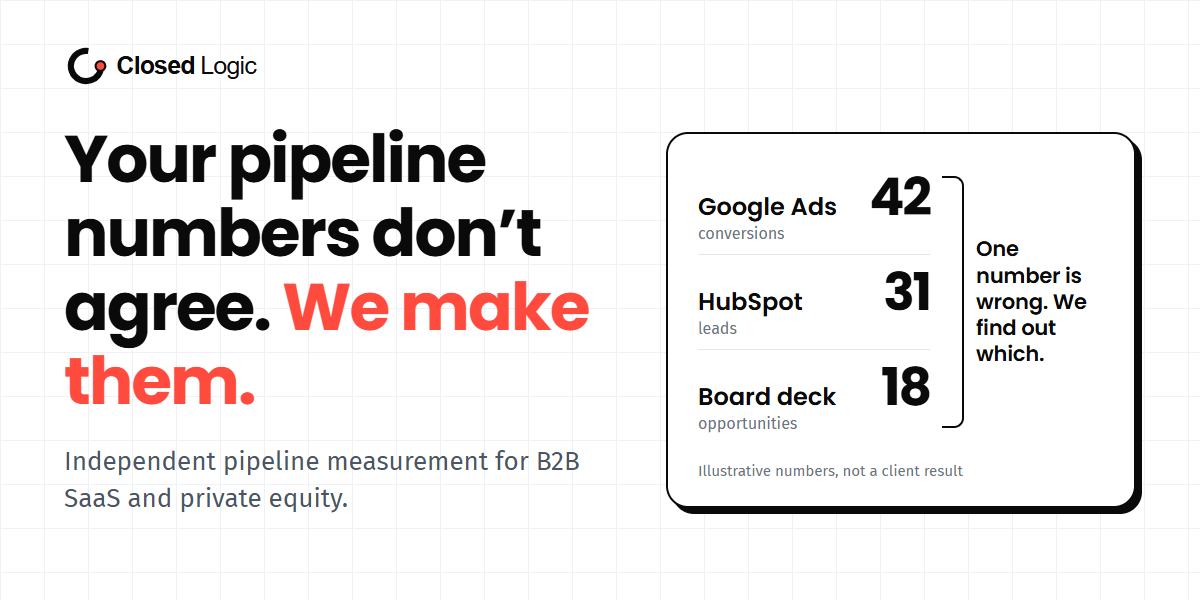
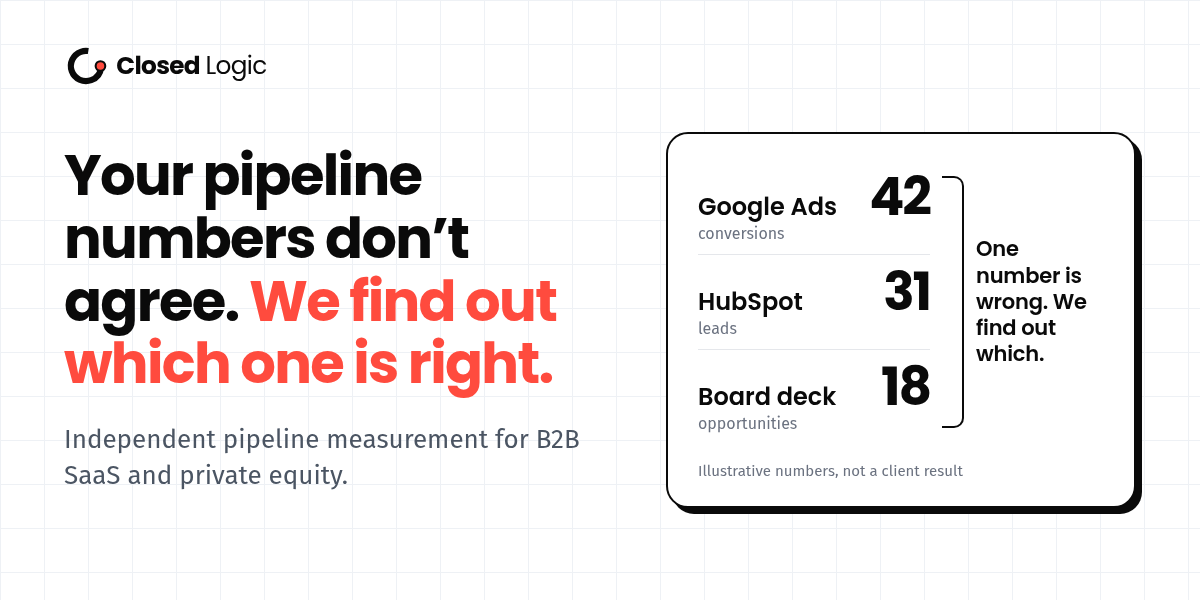
Copy: OG images and site description to new headline; about belief to refund guarantee; terms 4.1 readout, 5.4 override, 5.6 notice

diff --git a/app/terms/page.tsx b/app/terms/page.tsx
@@ -62,16 +62,16 @@ export default function Terms() {
           </C>
 
           <h2 id="clause-4" className={h2}>4. If the audit doesn&apos;t find three material issues</h2>
-          <C n="4.1">If the audit doesn&apos;t find at least three material issues, we refund the full $1,500 within 14 days. You keep the report, the baseline and the roadmap.</C>
+          <C n="4.1">If the audit doesn&apos;t find at least three material issues, we refund the full $1,500 within 14 days of the audit readout. You keep the report, the baseline and the roadmap.</C>
           <C n="4.2">If you don&apos;t continue after the audit, there is no lock-in.</C>
 
           <h2 id="clause-5" className={h2}>5. Fractional Measurement Lead and retainers</h2>
           <C n="5.1">Fractional Measurement Lead covers 25 hours a month. Month 1 is the audit, definitions and roadmap. Months 2 and 3 are the monthly scorecard, fixes and a 60-minute review.</C>
           <C n="5.2">Any change we make to your accounts is agreed with you first.</C>
           <C n="5.3">The initial term is 3 months. After that, the engagement runs month to month until either of us gives 30 days&apos; written notice.</C>
-          <C n="5.4">Fractional: either side can end it in writing during the first 30 days, and you pay only for that first month.</C>
+          <C n="5.4">Fractional: either side can end it in writing during the first 30 days, and you pay only for that first month. This overrides the 3-month initial term in clause 5.3.</C>
           <C n="5.5">We don&apos;t guarantee ad performance, pipeline or revenue. We promise a defensible number and a documented method, not perfect attribution.</C>
-          <C n="5.6">The Measurement Scorecard is $1,500 a month, month to month. It covers a monthly reconciliation of your pipeline and revenue numbers across your CRM, ads and finance, plus a one-page scorecard showing what moved and what doesn&apos;t agree. It includes no fix hours: fixes are quoted separately or covered by Fractional.</C>
+          <C n="5.6">The Measurement Scorecard is $1,500 a month, month to month. It covers a monthly reconciliation of your pipeline and revenue numbers across your CRM, ads and finance, plus a one-page scorecard showing what moved and what doesn&apos;t agree. It includes no fix hours: fixes are quoted separately or covered by Fractional. Either of us can cancel it with 30 days&apos; written notice.</C>
 
           <h2 id="clause-6" className={h2}>6. PE portfolio measurement</h2>
           <C n="6.1">A Portfolio Measurement Pilot covers one portfolio company over about 3 weeks: KPI dictionary, 20-point audit, baseline, 90-day roadmap and a one-page scorecard.</C>

diff --git a/scripts/og-v3.html b/scripts/og-v3.html
@@ -16,7 +16,7 @@
     background-size: 44px 44px; position: relative;
   }
   .brand { position: absolute; left: 64px; top: 44px; height: 44px; }
-  h1 { font-family: Poppins, Arial, sans-serif; font-weight: 700; font-size: 66px; line-height: 1.12; letter-spacing: -0.03em; margin-top: 40px; }
+  h1 { font-family: Poppins, Arial, sans-serif; font-weight: 700; font-size: 56px; line-height: 1.12; letter-spacing: -0.03em; margin-top: 40px; }
   h1 span { color: var(--accent); }
   .sub { margin-top: 26px; font-size: 26px; line-height: 1.4; color: var(--body); max-width: 560px; }
   .card { background: #fff; border: 2px solid var(--ink); border-radius: 22px; box-shadow: 6px 6px 0 0 var(--ink); padding: 26px 30px; margin-top: 40px; }
@@ -35,7 +35,7 @@
 <div class="frame" id="frame">
   <img class="brand" src="../public/closed-logic-logo.svg" alt="Closed Logic">
   <div>
-    <h1>Your pipeline numbers don’t agree. <span>We make them.</span></h1>
+    <h1>Your pipeline numbers don’t agree. <span>We find out which one is right.</span></h1>
     <p class="sub">Independent pipeline measurement for B2B SaaS and private equity.</p>
   </div>
   <div class="card">

diff --git a/app/site.config.ts b/app/site.config.ts
@@ -12,7 +12,7 @@ export const site = {
   brand: "Closed Logic",
   positioning: "Independent pipeline measurement for B2B SaaS and PE",
   description:
-    "We make Google Ads, HubSpot and your board deck agree. Independent measurement audits, fractional measurement leadership and portfolio benchmarks. No media-buying incentive.",
+    "Your pipeline numbers don’t agree. We find out which one is right. Independent measurement audits, fractional measurement leadership and portfolio benchmarks. No media-buying incentive.",
   domain: "closedlogic.com", // apex; redirects to url (a Cloudflare redirect rule, see README)
   url: "https://www.closedlogic.com",
   // scripts/check-placeholders.mjs blocks the production build while emailLive is false, so the site never goes live

diff --git a/app/about/page.tsx b/app/about/page.tsx
@@ -18,7 +18,7 @@ const beliefs = [
   "The number should reconcile to the CRM, not to the dashboard.",
   "Independence is a feature, not a positioning line.",
   "A standard is more useful than another tool.",
-  "If we can’t find three material issues, we shouldn’t take the retainer.",
+  "If the audit doesn’t find at least three material issues, we refund the full $1,500 within 14 days.",
 ];
 
 export default function About() {
